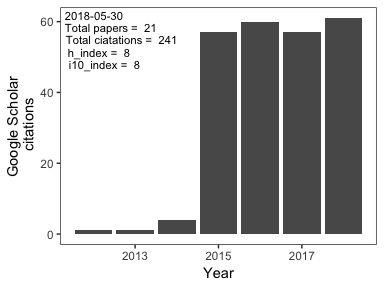
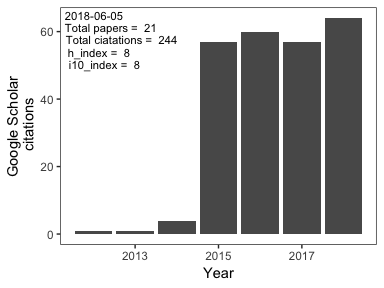
update cv

diff --git a/docs/README.md b/docs/README.md
@@ -80,7 +80,7 @@ Summary Citation Metrics
 Publications in Review
 ----------------------
 
-Wells, K, Gibson, D, and **Clark, NJ**. Global patterns in helminth host specificity: phylogenetic and functional diversity of regional host species pools matter (1st submission 25/01/18)
+Wells, K, Gibson, D, and **Clark, NJ**. Global patterns in helminth host specificity: phylogenetic and functional diversity of regional host species pools matter (1st revision 05/06/18)
 
 Lawrence, AL, Webb, CE, **Clark, NJ**, Halajian, A, Mihalca, A, Miret, J, D'Amico, G, Brown, G, Kumsa, B, Modry, D, and Šlapeta, J. Out-of-Africa origins and global climatic distribution of the common cat flea, Ctenocephalides felis: the hitchhiker’s guide to world domination (1st submission 26/11/17)
 
